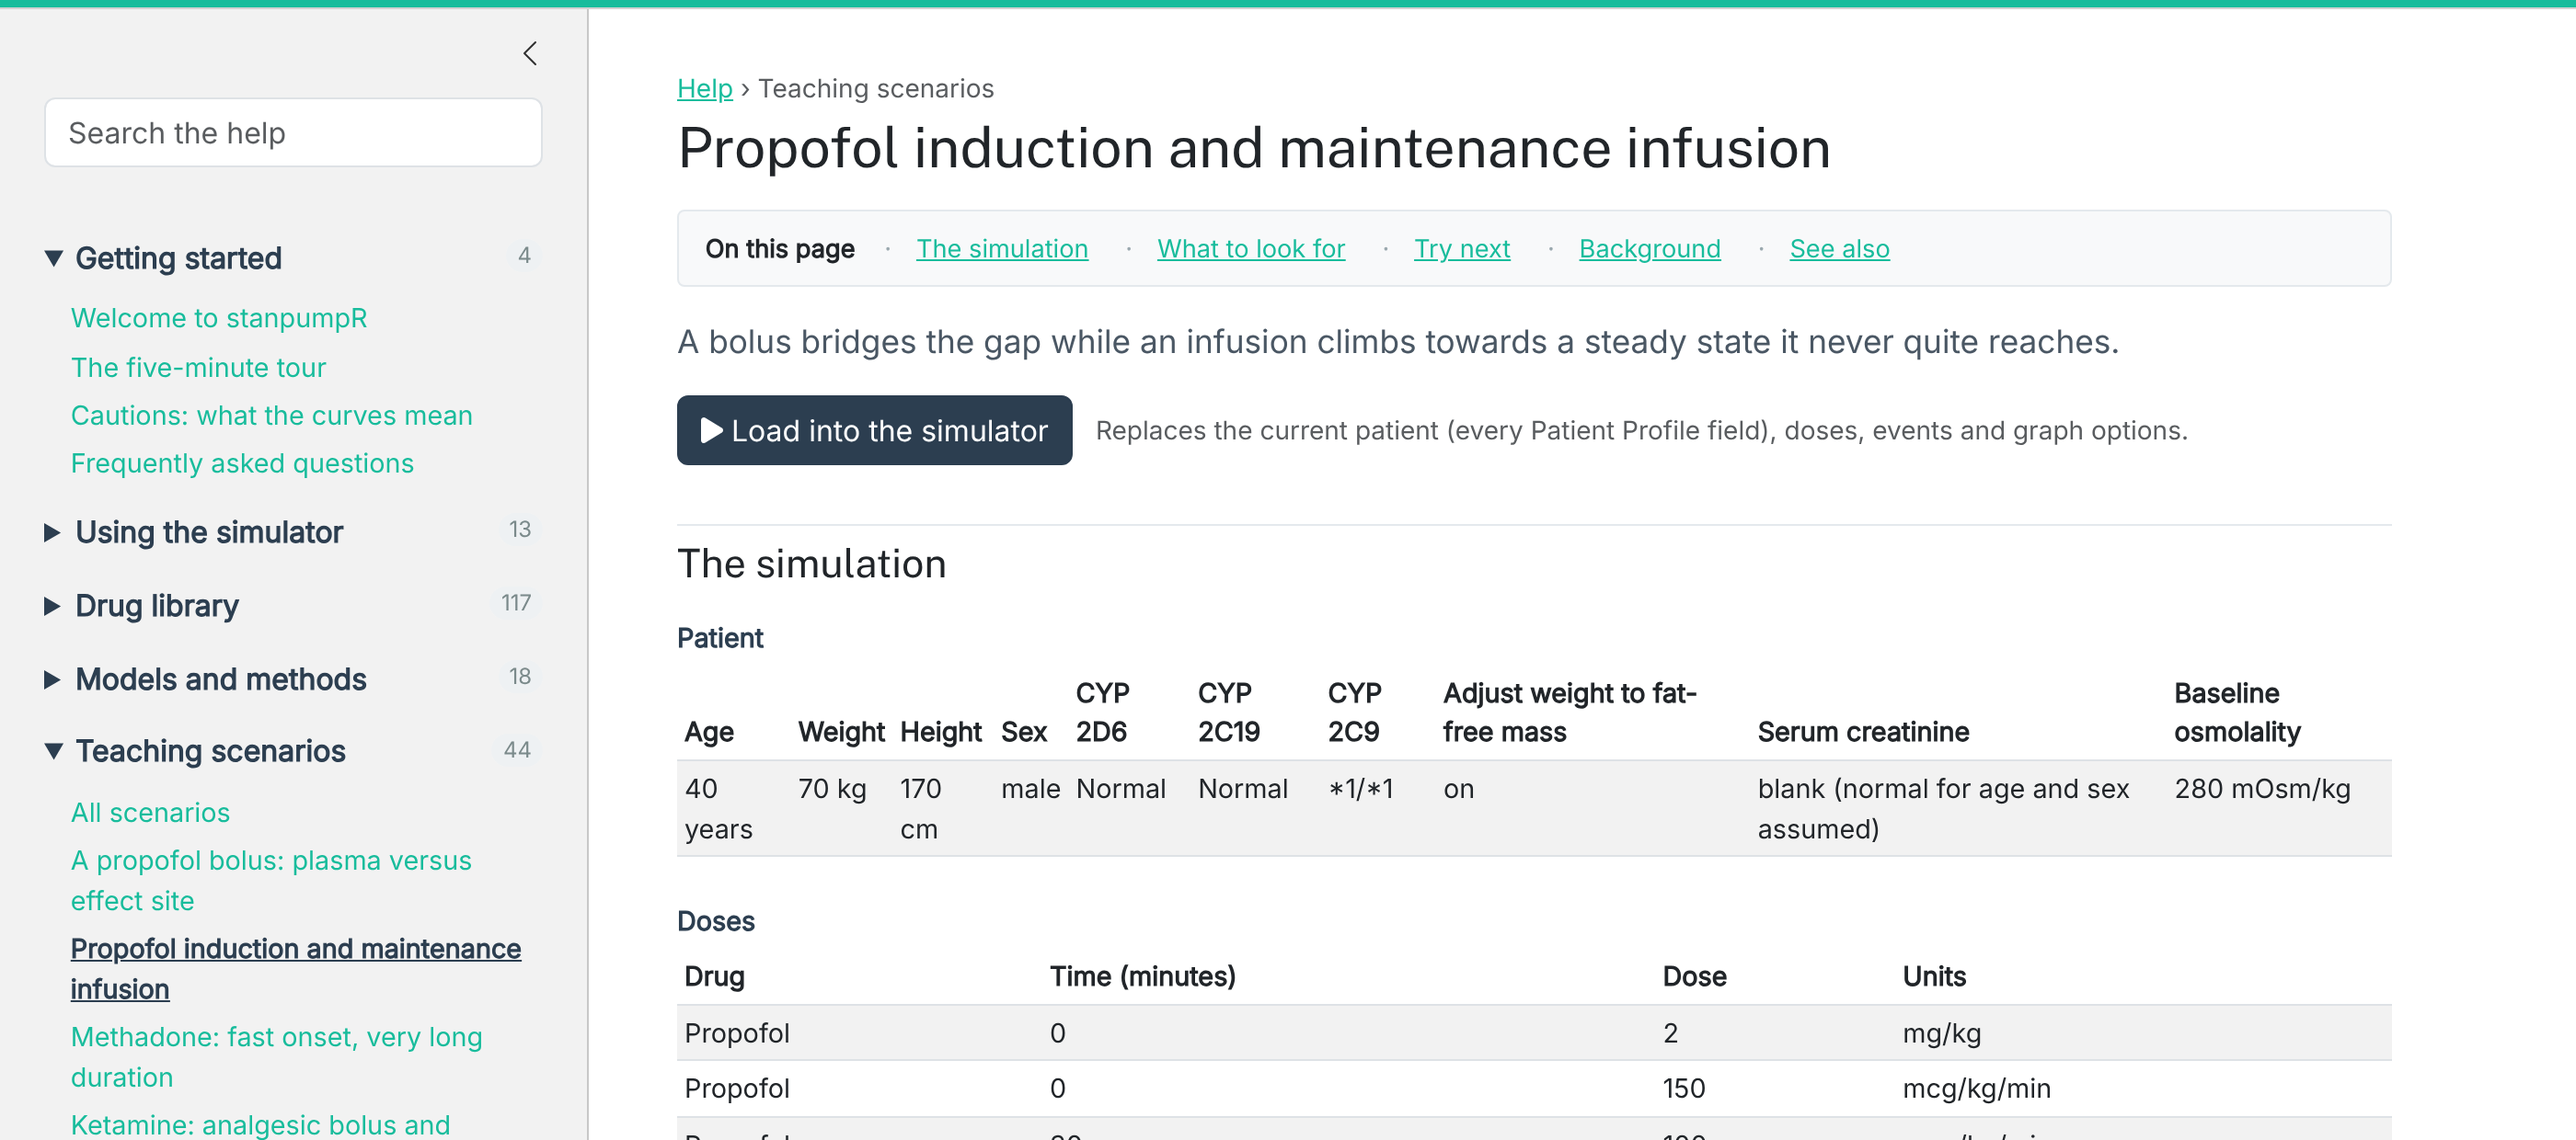
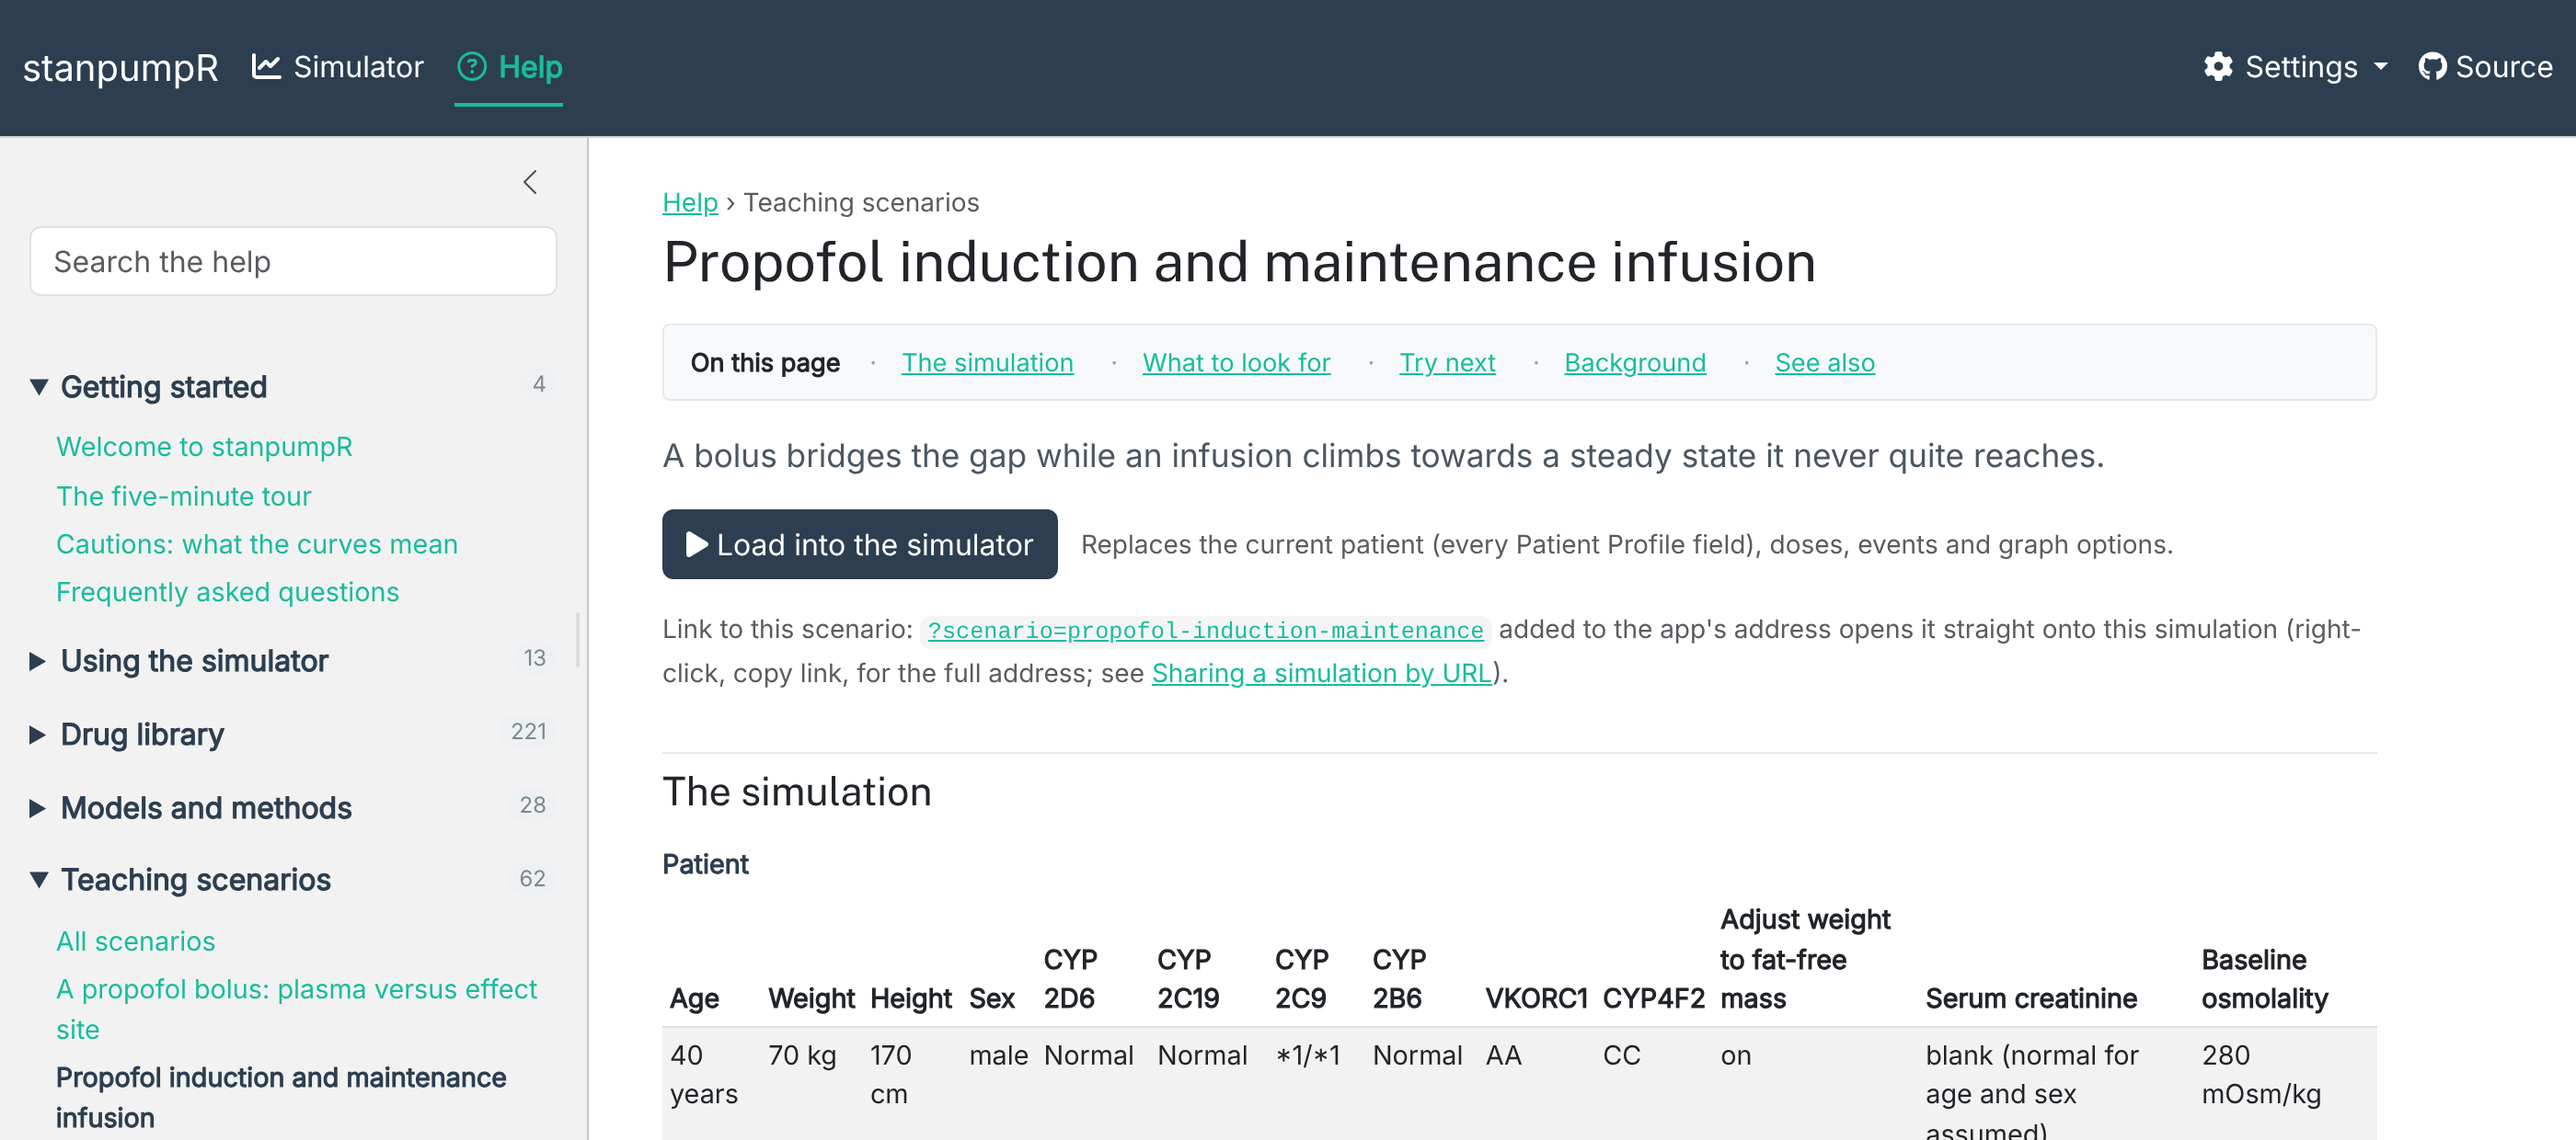
Recapture the tour's screenshots with a script; update its text
The seven pictures of the five-minute tour predated the Time panel's
sliders, the dose table's Dose/Target column and Add new drug button,
Additional plots at the foot of Graph Options, the Parkinson disease
category and the Patient Profile fields shown only while a drug reads them.
data-raw/help-screenshots.js now makes them with Playwright from the
propofol-induction-maintenance scenario's deep link, so they can be
remade whenever the interface changes, and adds one of the Time panel.

The text follows: the Time panel is described with its own picture, the
log axis is said to be offered only while no right-hand scale is drawn,
the drug-specific Graph Options and Patient Profile fields are said to
appear only with such a drug, and Opioid tolerance is mentioned.

Claude-Session: https://claude.ai/code/session_0169csHpYd5QcSAiVDukRaVP

diff --git a/data-raw/help-screenshots.js b/data-raw/help-screenshots.js
@@ -1,0 +1,109 @@
+// Recapture the screenshots of the help's five-minute tour
+// (inst/help/quick-start.md -> inst/www/help/quick-start-*.png).
+//
+// The pictures drift as the interface changes, so they are made by this script
+// rather than by hand, from the teaching scenario the tour describes
+// (propofol-induction-maintenance), reached by its deep link.
+//
+// 1. Start the app on a fixed port, with a config.yml whose title is
+//    "stanpumpR" and whose debug is 0 (no Debug Section under the plot):
+//      Rscript -e 'devtools::load_all("."); shiny::runApp(run_app(), port = 7788)'
+// 2. From the repository root, with Playwright installed:
+//      node data-raw/help-screenshots.js [http://127.0.0.1:7788]
+//
+// Every capture is at twice the CSS pixel size, as the help displays them
+// scaled down.
+
+const { chromium } = require('playwright');
+const path = require('path');
+
+const BASE = process.argv[2] || 'http://127.0.0.1:7788';
+const OUT = path.join(__dirname, '..', 'inst', 'www', 'help');
+const SCENARIO = 'propofol-induction-maintenance';
+const VIEWPORT = { width: 1400, height: 820 };
+
+const out = name => path.join(OUT, `quick-start-${name}.png`);
+
+// Wait until Shiny is idle and the plot has drawn.
+async function settle(page, ms = 1500) {
+  await page.waitForFunction(() =>
+    window.Shiny && !document.documentElement.classList.contains('shiny-busy'),
+    null, { timeout: 60000 });
+  await page.waitForTimeout(ms);
+}
+
+async function simulatorPage(browser) {
+  const page = await browser.newPage({ viewport: VIEWPORT, deviceScaleFactor: 2 });
+  await page.goto(`${BASE}/?scenario=${SCENARIO}`);
+  await page.waitForSelector('#PlotSimulation img', { timeout: 60000 });
+  await settle(page, 3000);
+  // the scenario's "Loaded" notification would cover the dose panel
+  await page.addStyleTag({ content: '#shiny-notification-panel { display: none !important; }' });
+  return page;
+}
+
+// Open one accordion panel of the left sidebar (and close the others).
+async function openPanel(page, value) {
+  const item = page.locator(`.accordion-item[data-value="${value}"]`);
+  await item.locator('.accordion-button').click();
+  await settle(page, 1200);
+  return item;
+}
+
+(async () => {
+  const browser = await chromium.launch();
+
+  // The opening dialog, as on a first visit (a fresh browser has no record
+  // of the weekly welcome).
+  {
+    const page = await browser.newPage({ viewport: VIEWPORT, deviceScaleFactor: 2 });
+    await page.goto(`${BASE}/`);
+    const modal = page.locator('.modal-content');
+    await modal.waitFor({ timeout: 60000 });
+    await page.waitForTimeout(1500);
+    await modal.screenshot({ path: out('welcome') });
+    await page.close();
+  }
+
+  {
+    const page = await simulatorPage(browser);
+    await page.screenshot({ path: out('simulator') });
+
+    await page.locator('#PlotSimulation').screenshot({ path: out('plot') });
+
+    // The dose panel fills the window's height; a short window keeps the
+    // picture to the table and its buttons.
+    await page.setViewportSize({ width: VIEWPORT.width, height: 580 });
+    await settle(page, 1500);
+    await page.locator('aside.dose-sidebar').screenshot({ path: out('doses') });
+    // and a tall one shows a whole sidebar panel without its scroll bar
+    await page.setViewportSize({ width: VIEWPORT.width, height: 1250 });
+    await settle(page, 1500);
+
+    const sidebar = page.locator('aside.sidebar:not(.dose-sidebar):not(.help-sidebar) .accordion').first();
+    await openPanel(page, 'Patient Profile');
+    await sidebar.screenshot({ path: out('patient') });
+
+    await openPanel(page, 'Patient Profile');   // close it again
+    await openPanel(page, 'Graph Options');
+    await sidebar.screenshot({ path: out('graph-options') });
+
+    await openPanel(page, 'Graph Options');
+    await openPanel(page, 'time');
+    await sidebar.screenshot({ path: out('time') });
+    await page.close();
+  }
+
+  // The scenario's own help page, top of the page only.
+  {
+    const page = await browser.newPage({ viewport: { width: 1400, height: 620 },
+                                          deviceScaleFactor: 2 });
+    await page.goto(`${BASE}/?help=scenarios/${SCENARIO}`);
+    await page.waitForSelector('h1.help-title', { timeout: 60000 });
+    await settle(page, 1500);
+    await page.screenshot({ path: out('scenario-page') });
+    await page.close();
+  }
+
+  await browser.close();
+})();

diff --git a/inst/help/quick-start.md b/inst/help/quick-start.md
@@ -1,14 +1,14 @@
 Five steps produce a simulation. Everything else in this help is refinement.
 
 <figure class="help-figure">
-<img src="stanpumpr-assets/help/quick-start-simulator.png" alt="The simulator: the options sidebar on the left, the plot in the middle, the dose table on the right">
-<figcaption>The simulator. Patient and graph settings on the left, the plot in the middle, the dose table on the right.</figcaption>
+<img src="stanpumpr-assets/help/quick-start-simulator.png" alt="The simulator: on the left the Patient Profile, Graph Options, Time, Dose table and Email Slide panels; the plot in the middle with the Add new drug button beneath it; the dose table on the right with Apply Changes, Undo and Redo">
+<figcaption>The simulator. Patient, graph and time settings on the left, the plot in the middle, the dose table on the right.</figcaption>
 </figure>
 
-When the app opens it asks which drugs to display. The drugs are grouped by category: hypnotics and sedatives, opioids, oral analgesics, neuromuscular blockade, inhaled anesthetics, antibiotics, corticosteroids, antidepressants, stimulants, local anesthetics, antiemetics, antiseizure drugs, antipsychotics, antidiabetic drugs, anticoagulants, antihypertensives, vasoactive and resuscitation drugs, and others. Each category starts collapsed, showing only its name and how many drugs it holds; click it to open its list and tick the drugs you want. A category with drugs ticked says how many, even when collapsed again. Nothing is ticked to begin with. The illicit-drug research models are never offered here. **Start** puts each ticked drug in the dose table with a dose of 0 at time 0, ready to edit; with nothing ticked, the dose table starts empty. Any drug can be added to the dose table later.
+When the app opens it asks which drugs to display. The drugs are grouped by category: hypnotics and sedatives, opioids, oral analgesics, neuromuscular blockade, inhaled anesthetics, antibiotics, corticosteroids, antidepressants, stimulants, local anesthetics, antiemetics, antiseizure drugs, antipsychotics, antidiabetic drugs, anticoagulants, antihypertensives, vasoactive and resuscitation drugs, Parkinson disease, and others. Each category starts collapsed, showing only its name and how many drugs it holds; click it to open its list and tick the drugs you want. A category with drugs ticked says how many, even when collapsed again. Nothing is ticked to begin with. The illicit-drug research models are never offered here. **Start** puts each ticked drug in the dose table with a dose of 0 at time 0, ready to edit; with nothing ticked, the dose table starts empty. Any drug can be added to the dose table later.
 
 <figure class="help-figure help-figure-medium">
-<img src="stanpumpr-assets/help/quick-start-welcome.png" alt="The opening dialog: the statement of what stanpumpR is, a Take the tour button, and the drug categories as eighteen collapsed sections, each with the number of drugs it holds, and a Start button at the bottom">
+<img src="stanpumpr-assets/help/quick-start-welcome.png" alt="The opening dialog: the statement of what stanpumpR is, a Take the tour button, and the drug categories as collapsed sections, each with the number of drugs it holds, and a Start button at the bottom">
 <figcaption>The opening dialog, as on a first visit: the statement of what stanpumpR is, then the drug categories, each collapsed until clicked.</figcaption>
 </figure>
 
@@ -21,18 +21,18 @@ A link to a saved simulation, or reloading the page, skips the question and open
 Open **Patient Profile** in the left sidebar. Enter age, weight, height and sex. The unit buttons beside each field switch between years and months, kilograms and pounds, inches and centimetres. These four covariates drive the pharmacokinetic models, so they change the predictions.
 
 <figure class="help-figure help-figure-narrow">
-<img src="stanpumpr-assets/help/quick-start-patient.png" alt="The Patient Profile panel: age with yr/mo buttons, weight with kg/lb and the ticked Adjust weight to fat-free mass box, height with in/cm, sex, CYP 2D6 and CYP 2C19 set to Normal, CYP 2C9 set to *1/*1, baseline serum osmolality of 280 mOsm/kg, and an empty Serum creatinine field">
-<figcaption>The Patient Profile panel for a 40-year-old man. Serum creatinine is left blank, so a normal value is assumed. The genotype, osmolality and creatinine fields are now shown only while a drug that reads them is in the dose table, and Pregnant only for a woman of 12 to 59.</figcaption>
+<img src="stanpumpr-assets/help/quick-start-patient.png" alt="The Patient Profile panel: age with yr/mo buttons, weight with kg/lb and the ticked Adjust weight to fat-free mass box, height with in/cm, and sex">
+<figcaption>The Patient Profile panel for a 40-year-old man given propofol. Propofol reads none of the other fields, so only these are shown; a genotype, the serum creatinine or the baseline osmolality appears when a drug that reads it is in the dose table.</figcaption>
 </figure>
 
-*Adjust weight to fat-free mass* is on by default. The fields below are shown only while a drug that reads them is in the dose table. *CYP 2D6* sets the metaboliser phenotype for the drugs with active metabolites, some antipsychotics and metoprolol; *CYP 2C19*, *CYP 2C9*, *CYP 2B6*, *VKORC1* and *CYP4F2* are read by the few drugs whose models depend on them. *Baseline serum osmolality* is read only by mannitol. *Serum creatinine* is optional and used by the drugs with a renal covariate; left blank, a normal value is assumed. *Pregnant*, shown for a woman of 12 to 59, applies the documented changes of late pregnancy to the drugs whose models have them. See [Patient profile](help:patient-profile).
+*Adjust weight to fat-free mass* is on by default. The fields below it are shown only while a drug that reads them is in the dose table, and the question mark beside each names those drugs. *CYP 2D6* sets the metaboliser phenotype for the drugs with active metabolites, some antipsychotics and metoprolol; *CYP 2C19*, *CYP 2C9*, *CYP 2B6*, *VKORC1* and *CYP4F2* are read by the few drugs whose models depend on them. *Baseline serum osmolality* is read only by mannitol. *Serum creatinine* is optional and used by the drugs with a renal covariate; left blank, a normal value is assumed. *Pregnant*, shown for a woman of 12 to 59, applies the documented changes of late pregnancy to the drugs whose models have them. *Opioid tolerance*, shown while an opioid is dosed, raises each opioid's MEAC. See [Patient profile](help:patient-profile).
 
 ## 2. Enter the doses
 
-The **Doses** table is in the panel to the right of the plot (the arrow at its top hides and shows it). In the *Drug* column, start typing a drug name and choose from the list. Enter a *Time*, a *Dose*, and pick *Units*. Times are in the **Time units** chosen in the *Time* panel of the left sidebar: minutes when the app opens, or hours, days or weeks for longer courses (changing the unit converts the table). With the *Actual time* display, a time like `09:30` is a clock time.
+The **Doses** table is in the panel to the right of the plot (the arrow at its top hides and shows it). In the *Drug* column, start typing a drug name and choose from the list. Enter a *Time*, a dose in the *Dose/Target* column (a target concentration for a TCI row), and pick *Units*. Times are in the **Time units** chosen in the *Time* panel of the left sidebar: minutes when the app opens, or hours, days or weeks for longer courses (changing the unit converts the table). With the *Actual time* display, a time like `09:30` is a clock time.
 
 <figure class="help-figure help-figure-medium">
-<img src="stanpumpr-assets/help/quick-start-doses.png" alt="The dose table with four propofol rows: a 2 mg/kg bolus, an infusion of 150 then 100 mcg/kg/min, and a stop at 90 minutes; below it the Apply Changes, Undo and Redo buttons">
+<img src="stanpumpr-assets/help/quick-start-doses.png" alt="The dose table, with Drug, Time, Dose/Target and Units columns, holding four propofol rows: a 2 mg/kg bolus, an infusion of 150 then 100 mcg/kg/min, and a stop at 90 minutes; below it the Apply Changes, Undo and Redo buttons">
 <figcaption>A propofol induction and infusion: a bolus, two infusion rates, and a row with a dose of 0 to stop the infusion. Apply Changes, Undo and Redo are beneath the table.</figcaption>
 </figure>
 
@@ -64,14 +64,21 @@ See [Reading the plot](help:reading-the-plot).
 
 ## 5. Refine
 
-The **Time** panel sets the time units, how far the simulation runs (the *Max time* slider) and where the axis starts (the *Min time* slider, for a close look late in a long plot). **Graph Options** sets line styles, normalization, a log axis, the *Time until threshold* lines, and the *Minto / Schnider* switch that draws those propofol and remifentanil models beside the library's own.
+The **Time** panel, in the left sidebar, sets the time units, how far the simulation runs (the *Max time* slider), where the axis starts (the *Min time* slider, for a close look late in a long plot) and whether times are elapsed or clock times.
 
 <figure class="help-figure help-figure-narrow">
-<img src="stanpumpr-assets/help/quick-start-graph-options.png" alt="The Graph Options panel: Show typical, Normalize to, plasma and effect-site line styles, Y axis height, Time until threshold, the opioid-MAC interaction checkbox and the Minto / Schnider switch">
-<figcaption>The Graph Options panel.</figcaption>
+<img src="stanpumpr-assets/help/quick-start-time.png" alt="The Time panel: Time units set to Minutes, the Max time slider at 120 min, the Min time slider at 0 min, and Time Display set to Elapsed time">
+<figcaption>The Time panel.</figcaption>
 </figure>
 
-- **Additional plots**, under Graph Options, adds the MEAC panel for comparing opioids, the propofol-opioid interaction panel, and the clinical events timeline.
+**Graph Options** sets line styles, normalization, the *Time until threshold* lines, a log axis (offered while no right-hand scale is drawn), the *Peripheral compartments* panels, and the *Minto / Schnider* switch that draws those propofol and remifentanil models beside the library's own. Options that apply only to some drugs, such as the opioid-MAC interaction and % MEAC, appear while such a drug is dosed.
+
+<figure class="help-figure help-figure-narrow">
+<img src="stanpumpr-assets/help/quick-start-graph-options.png" alt="The Graph Options panel: Show typical, Normalize to, plasma and effect-site line styles, Y axis height, Time until threshold, Peripheral compartments, the Minto / Schnider switch, and Additional plots with its Events box">
+<figcaption>The Graph Options panel, for propofol alone.</figcaption>
+</figure>
+
+- **Additional plots**, at the foot of Graph Options, adds the clinical events timeline and, while the drugs they need are dosed, the MEAC panel for comparing opioids and the propofol-opioid interaction panel.
 - **Suggest Dosing** (in the *Dose table* panel of the left sidebar) works backwards from a target effect-site concentration.
 - The URL in your browser's address bar encodes the whole simulation; copy it to share or save your work. See [Sharing a simulation by URL](help:sharing).
 
